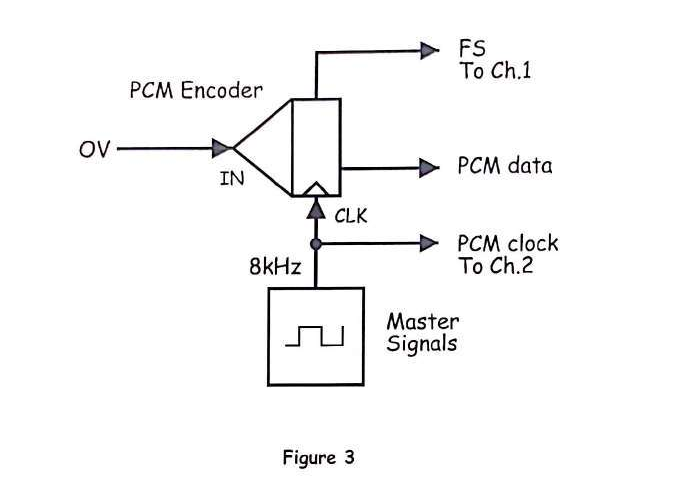
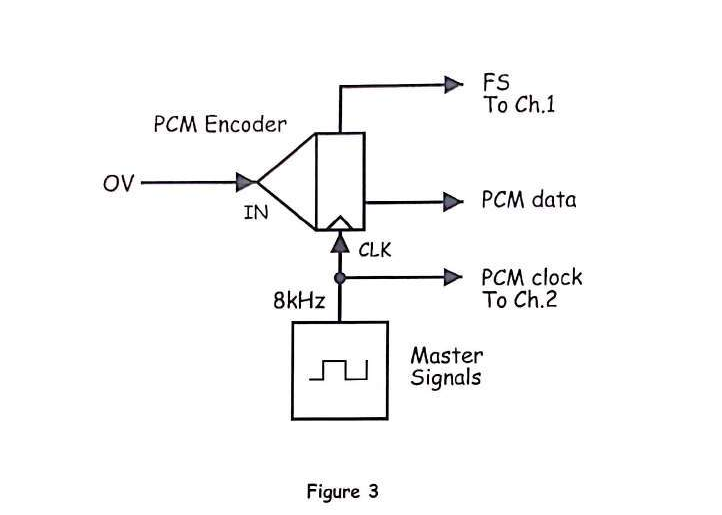
Update all 12 parts across Labs 1-4 with completely unique, authentic EMONA block diagram figures

Changed region(s): [[0.1244, 0.0624, 0.84, 0.842], [0.4044, 0.9356, 0.5289, 0.9979]]

diff --git a/telecoms-app/src/data/labExperiments.ts b/telecoms-app/src/data/labExperiments.ts
@@ -163,7 +163,7 @@ const lab2: LabExperiment = {
       title: "Part B: Encoding Variable DC Voltage",
       description:
         "Connect the Variable DCV output to PCM Encoder INPUT 1. Adjust the DC voltage from -2.5V to +2.5V and observe the 8-bit binary code change on CH1 from 00000000 (min) to 11111111 (max).",
-      diagramUrl: dUrl("lab2_fig5.png"),
+      diagramUrl: dUrl("lab2_fig8.png"),
       figureLabel: "Figure 8: Variable DC Voltage PCM Encoding Block Diagram",
       wires: [
         { fromPortId: "ms.2k_dig", toPortId: "pcme.clk", color: autoColor(0) },
@@ -189,7 +189,7 @@ const lab2: LabExperiment = {
       title: "Part C: Encoding AC Sinewave",
       description:
         "Feed a continuous 2 kHz sine wave into the PCM Encoder. Observe how the serial PCM bit pattern changes dynamically as the analog signal varies across each quantized sampling interval.",
-      diagramUrl: dUrl("lab2_fig7.png"),
+      diagramUrl: dUrl("lab2_fig4.png"),
       figureLabel: "Figure 4: AC Sinewave PCM Encoding Block Diagram",
       wires: [
         { fromPortId: "ms.2k_dig", toPortId: "pcme.clk", color: autoColor(0) },
@@ -223,37 +223,34 @@ const lab3: LabExperiment = {
   parts: [
     {
       id: "lab3_a",
-      title: "Part A: Basic Encode–Decode Loop",
+      title: "Part A: Checking the PCM Encoder (Sine Input)",
       description:
-        "Wire the PCM Encoder output directly into the PCM Decoder with stolen CLK and FS signals. Observe the reconstructed staircase PAM analog output on CH1 compared to the original message on CH2.",
-      diagramUrl: dUrl("lab3_fig3.png"),
-      figureLabel: "Figure 6: PCM Decode Loop Block Diagram",
+        "Feed the 2 kHz Sine wave into the PCM Encoder. Check the serial PCM DATA bit stream on CH2 synchronized to the Frame Sync (FS) pulses on CH1.",
+      diagramUrl: dUrl("lab3_fig4.png"),
+      figureLabel: "Figure 4: PCM Encoder Sine Input Block Diagram",
       wires: [
         { fromPortId: "ms.2k_dig", toPortId: "pcme.clk", color: autoColor(0) },
         { fromPortId: "ms.8k_dig", toPortId: "pcme.fs", color: autoColor(1) },
         { fromPortId: "ms.2k_sine", toPortId: "pcme.in1", color: autoColor(2) },
-        { fromPortId: "pcme.pcm_data", toPortId: "pcmd.pcm_data", color: autoColor(3) },
-        { fromPortId: "ms.2k_dig", toPortId: "pcmd.clk", color: autoColor(4) },
-        { fromPortId: "ms.8k_dig", toPortId: "pcmd.fs", color: autoColor(5) },
-        { fromPortId: "pcmd.out", toPortId: "scope.ch1", color: autoColor(6) },
-        { fromPortId: "ms.2k_sine", toPortId: "scope.ch2", color: autoColor(0) },
+        { fromPortId: "pcme.pcm_data", toPortId: "scope.ch2", color: autoColor(3) },
+        { fromPortId: "ms.8k_dig", toPortId: "scope.ch1", color: autoColor(4) },
       ],
       scopeSettings: {
         timebaseMs: 0.2,
         ch1VPerDiv: 1,
         ch2VPerDiv: 1,
-        triggerSource: "ch2",
+        triggerSource: "ch1",
         triggerEdge: "rising",
         running: true,
       },
     },
     {
       id: "lab3_b",
-      title: "Part B: Listening via Buffer / Headphones",
+      title: "Part B: PCM Encode–Decode Loop (Stolen CLK & FS)",
       description:
-        "Route the decoded PAM output through the Buffer amplifier module. Observe the buffered output on CH1 and hear the quantization noise inherent in 8-bit quantized audio.",
+        "Connect the PCM Encoder data to the PCM Decoder with stolen CLK and FS signals. Observe the reconstructed staircase PAM analog output on CH2 compared to the original message on CH1.",
       diagramUrl: dUrl("lab3_fig6.png"),
-      figureLabel: "Figure 6: PCM Decoding with Buffer Block Diagram",
+      figureLabel: "Figure 6: PCM Encode–Decode Loop Block Diagram",
       wires: [
         { fromPortId: "ms.2k_dig", toPortId: "pcme.clk", color: autoColor(0) },
         { fromPortId: "ms.8k_dig", toPortId: "pcme.fs", color: autoColor(1) },
@@ -261,28 +258,24 @@ const lab3: LabExperiment = {
         { fromPortId: "pcme.pcm_data", toPortId: "pcmd.pcm_data", color: autoColor(3) },
         { fromPortId: "ms.2k_dig", toPortId: "pcmd.clk", color: autoColor(4) },
         { fromPortId: "ms.8k_dig", toPortId: "pcmd.fs", color: autoColor(5) },
-        { fromPortId: "pcmd.out", toPortId: "buf.in", color: autoColor(6) },
-        { fromPortId: "buf.out", toPortId: "scope.ch1", color: autoColor(0) },
-        { fromPortId: "ms.2k_sine", toPortId: "scope.ch2", color: autoColor(1) },
+        { fromPortId: "ms.2k_sine", toPortId: "scope.ch1", color: autoColor(0) },
+        { fromPortId: "pcmd.out", toPortId: "scope.ch2", color: autoColor(6) },
       ],
       scopeSettings: {
         timebaseMs: 0.2,
         ch1VPerDiv: 1,
         ch2VPerDiv: 1,
-        triggerSource: "ch2",
+        triggerSource: "ch1",
         triggerEdge: "rising",
         running: true,
-      },
-      params: {
-        buffer: { gain: 1.0 },
       },
     },
     {
       id: "lab3_c",
-      title: "Part C: Reconstruction with Tuneable LPF",
+      title: "Part C: Signal Reconstruction via Tuneable LPF",
       description:
-        "Pass the decoded staircase PAM through the Tuneable LPF to filter out quantization harmonics. Compare the cleanly reconstructed sine wave on CH1 with the original message on CH2.",
-      diagramUrl: dUrl("lab3_fig8.png"),
+        "Pass the decoded staircase PAM through the Tuneable LPF to filter out quantization harmonics. Compare the cleanly reconstructed sine wave on CH2 with the original message on CH1.",
+      diagramUrl: dUrl("lab3_fig11.png"),
       figureLabel: "Figure 11: PCM Signal Reconstruction Block Diagram",
       wires: [
         { fromPortId: "ms.2k_dig", toPortId: "pcme.clk", color: autoColor(0) },
@@ -292,14 +285,14 @@ const lab3: LabExperiment = {
         { fromPortId: "ms.2k_dig", toPortId: "pcmd.clk", color: autoColor(4) },
         { fromPortId: "ms.8k_dig", toPortId: "pcmd.fs", color: autoColor(5) },
         { fromPortId: "pcmd.out", toPortId: "tlpf.in", color: autoColor(6) },
-        { fromPortId: "tlpf.out", toPortId: "scope.ch1", color: autoColor(0) },
-        { fromPortId: "ms.2k_sine", toPortId: "scope.ch2", color: autoColor(1) },
+        { fromPortId: "ms.2k_sine", toPortId: "scope.ch1", color: autoColor(0) },
+        { fromPortId: "tlpf.out", toPortId: "scope.ch2", color: autoColor(1) },
       ],
       scopeSettings: {
         timebaseMs: 0.2,
         ch1VPerDiv: 1,
         ch2VPerDiv: 1,
-        triggerSource: "ch2",
+        triggerSource: "ch1",
         triggerEdge: "rising",
         running: true,
       },
@@ -326,7 +319,7 @@ const lab4: LabExperiment = {
       title: "Part A: ISI from Bandwidth-Limited Channel",
       description:
         "Pass the Sequence Generator's NRZ-L digital sequence through the Tuneable LPF channel. Observe the distorted, rounded pulses on CH2 due to ISI and compare with the crisp digital input on CH1.",
-      diagramUrl: dUrl("lab4_fig3.png"),
+      diagramUrl: dUrl("lab4_fig8.png"),
       figureLabel: "Figure 8: Bandwidth-Limited Channel Block Diagram",
       wires: [
         { fromPortId: "ms.2k_dig", toPortId: "seq.clk", color: autoColor(0) },
@@ -349,15 +342,15 @@ const lab4: LabExperiment = {
     },
     {
       id: "lab4_b",
-      title: "Part B: Eye Diagram Generation",
+      title: "Part B: Variable Bit Rate & Eye Diagram (VCO Clock)",
       description:
-        "Trigger the oscilloscope using the Sequence Generator's SYNC clock output. Overlapping multiple bit transitions forms an 'eye diagram' on CH1, revealing channel ISI and jitter.",
-      diagramUrl: dUrl("lab4_fig8.png"),
-      figureLabel: "Figure 8: Eye Diagram Generation Block Diagram",
+        "Clock the Sequence Generator with the variable frequency VCO and trigger the scope using SYNC to EXT. Observe the eye diagram on CH2 as bit rate or channel bandwidth varies.",
+      diagramUrl: dUrl("lab4_fig10.png"),
+      figureLabel: "Figure 10: Variable Bit Rate & Eye Diagram Block Diagram",
       wires: [
-        { fromPortId: "ms.2k_dig", toPortId: "seq.clk", color: autoColor(0) },
+        { fromPortId: "vco.digital", toPortId: "seq.clk", color: autoColor(0) },
         { fromPortId: "seq.line_code", toPortId: "tlpf.in", color: autoColor(1) },
-        { fromPortId: "tlpf.out", toPortId: "scope.ch1", color: autoColor(2) },
+        { fromPortId: "tlpf.out", toPortId: "scope.ch2", color: autoColor(2) },
         { fromPortId: "seq.sync", toPortId: "scope.ext_trig", color: autoColor(3) },
       ],
       scopeSettings: {
@@ -370,6 +363,7 @@ const lab4: LabExperiment = {
       },
       params: {
         tuneable_lpf: { fc: 2000, gain: 1.0 },
+        vco: { freq: 4000, gain: 1.0 },
         sequence_generator: { lineCode: "NRZ-L" },
       },
     },
